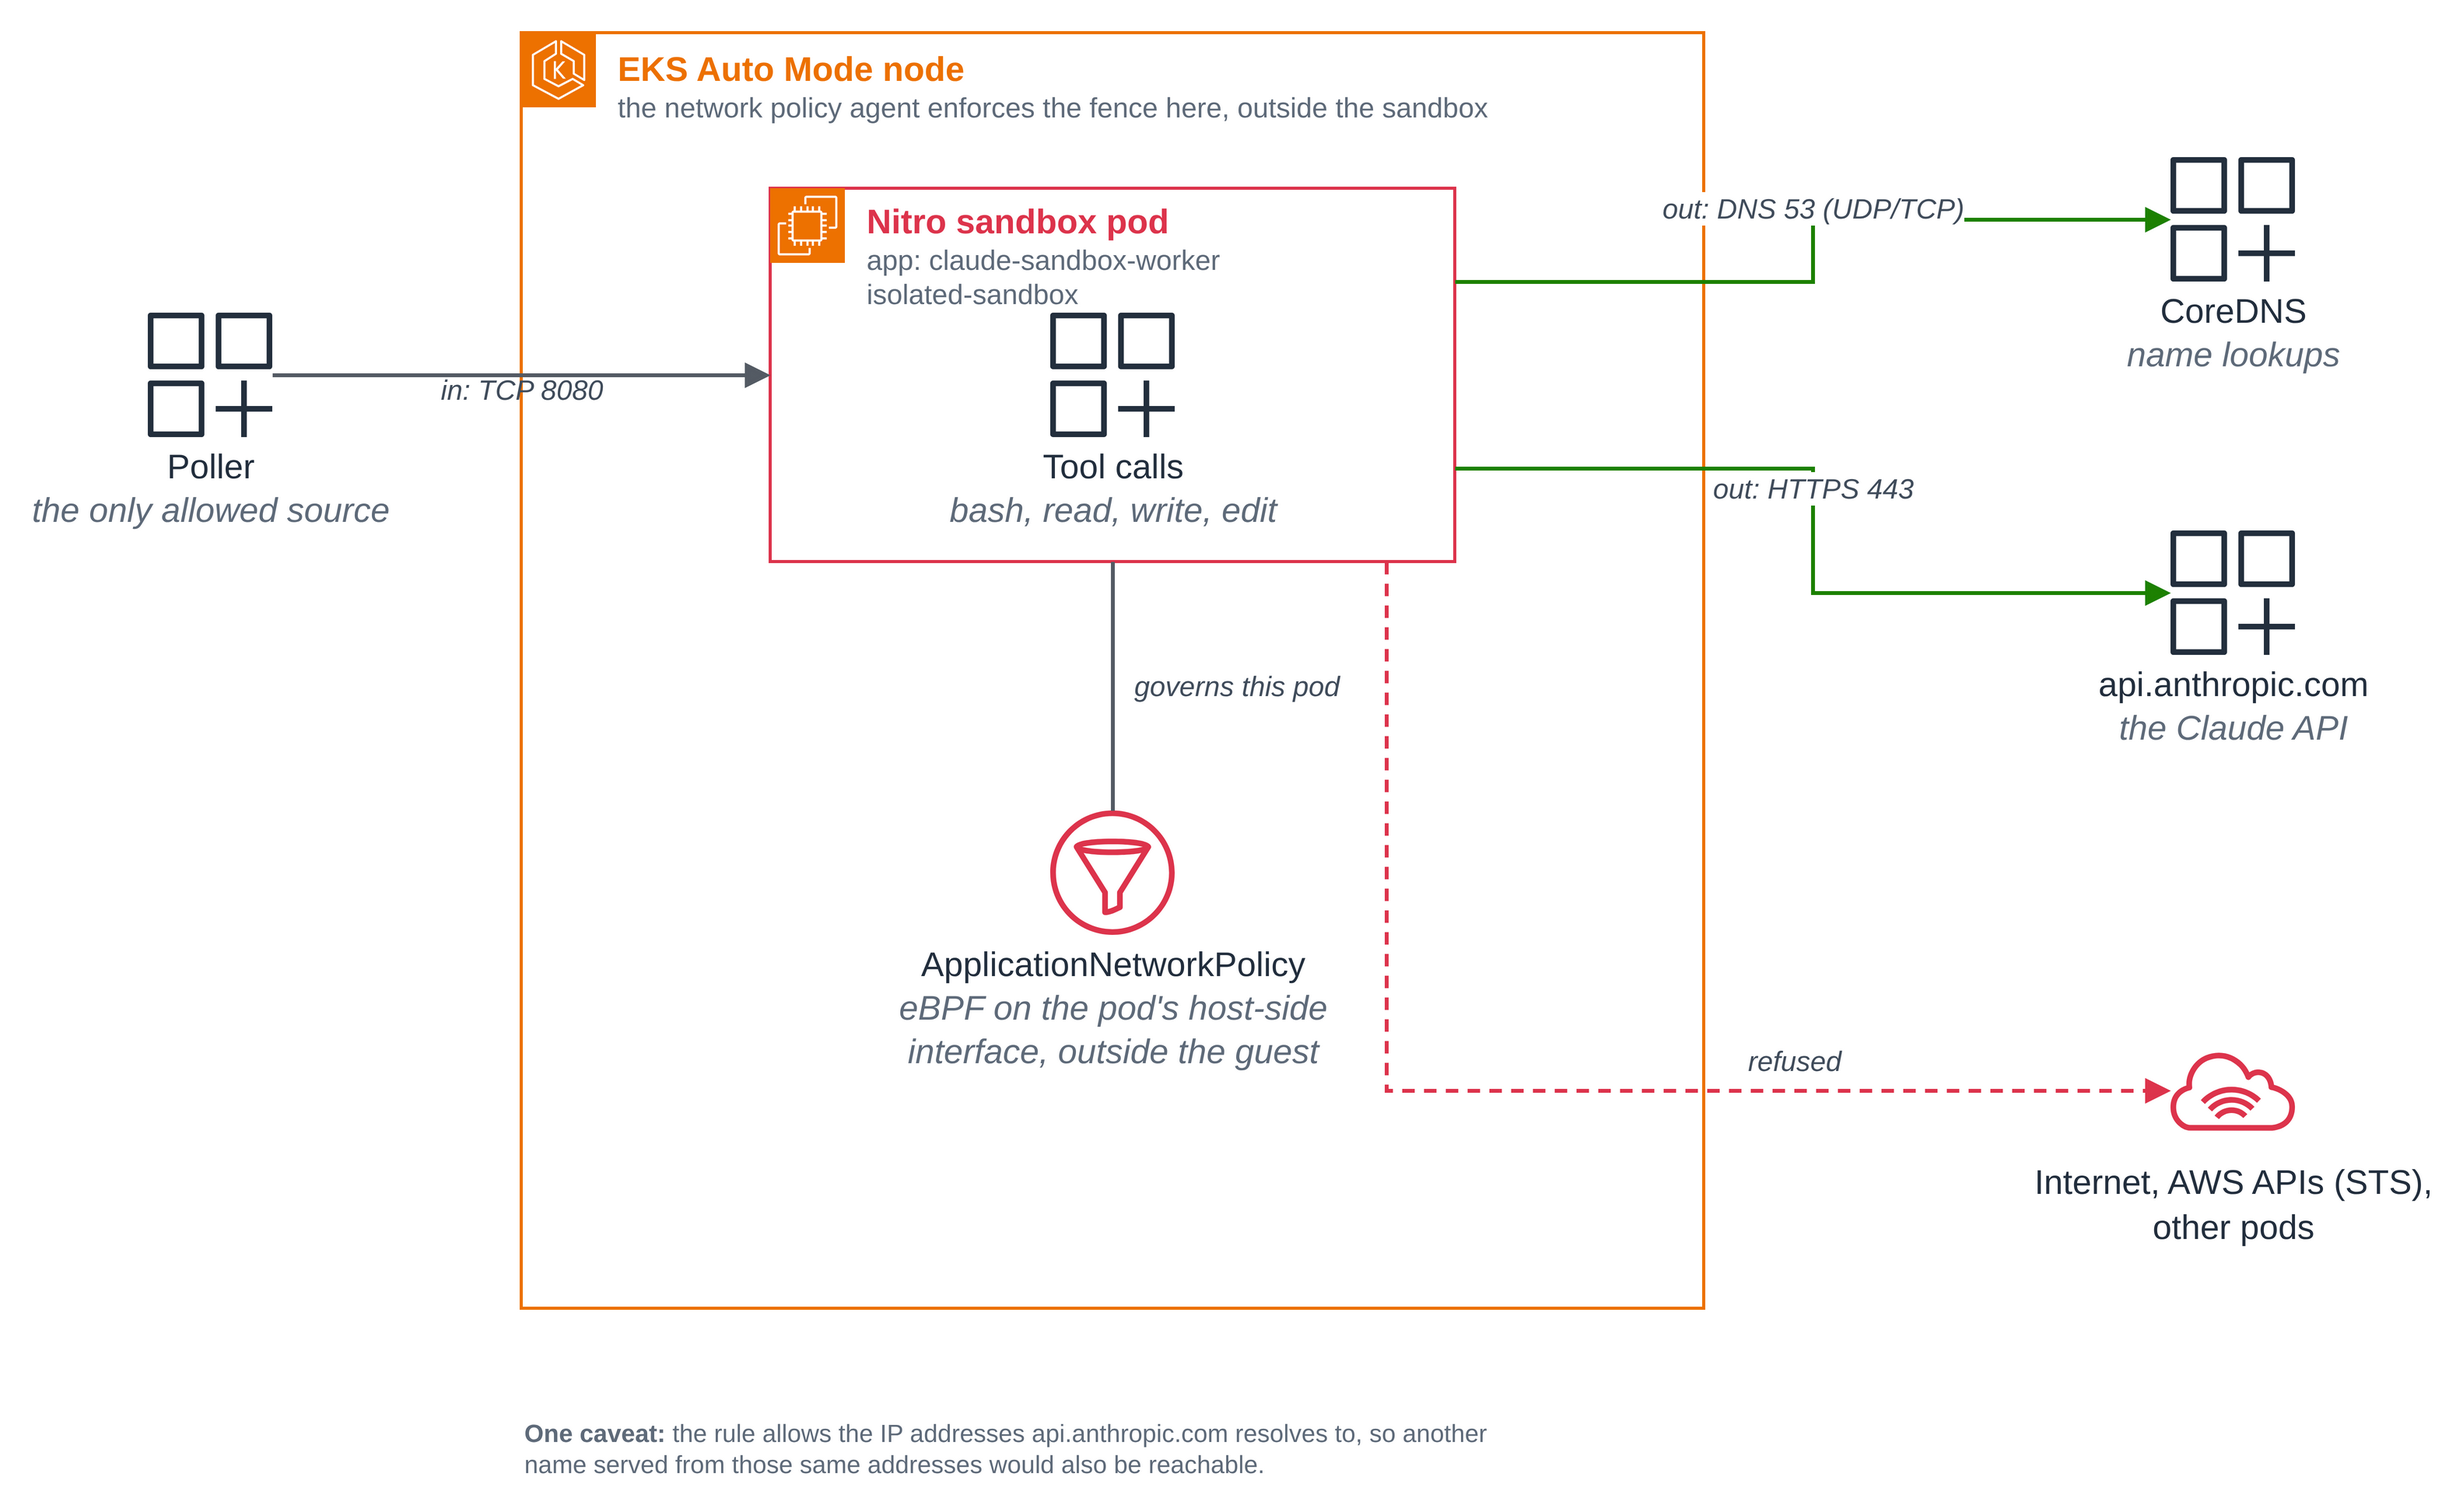
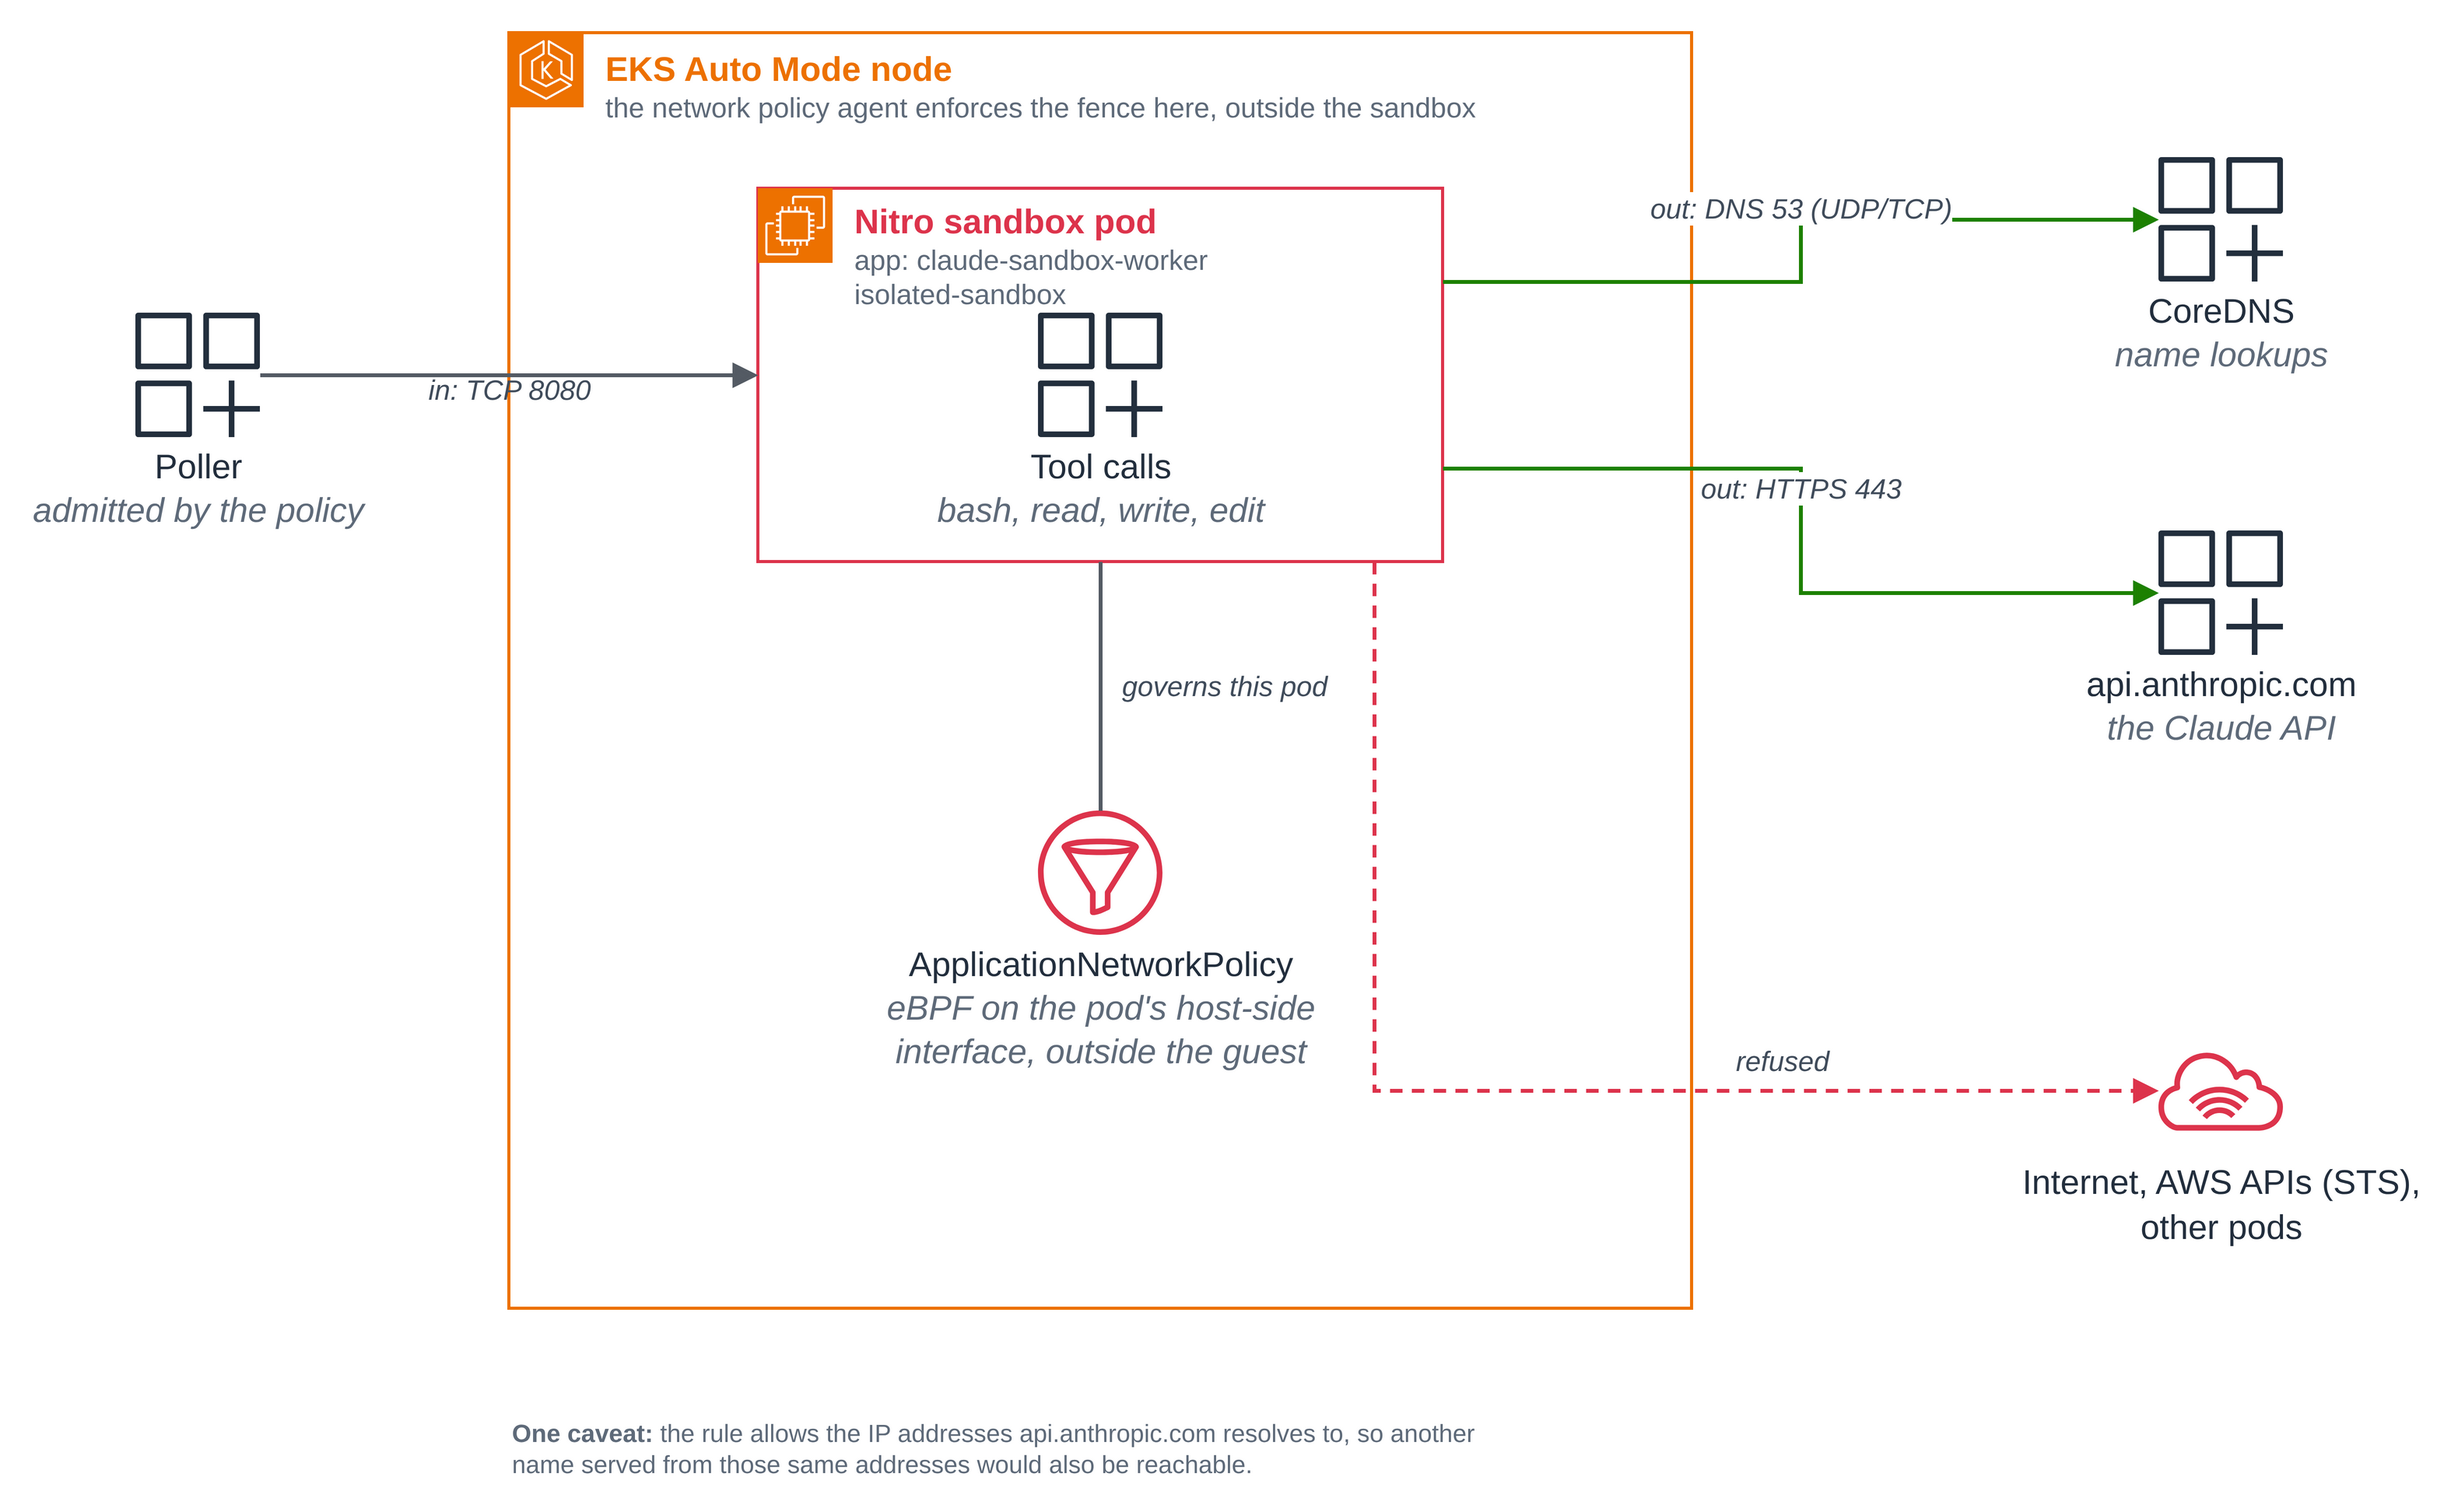
Drop the remaining "only inbound source" / "nothing else" absolutes
A follow-up review of the previous fix confirmed findings 3, 4 and the Figure 2
egress caption resolved, but found the node carve-out had not been propagated to
every spot: the overview bullet still said the policy "lets only the poller in"
and "lets the sandbox out only to", the policy header still said "nothing else",
and Figure 2's caption, alt text and the diagram's poller label still called the
poller "the only allowed inbound source". That contradicts the section's own
(correct) statement that Kubernetes always allows traffic to and from the pod's
own node -- the node (for example the kubelet's readiness probe) is also an
inbound source, and the node agent's ingress map holds the node IP as ANY
protocol (node-na-cli-maps.txt).

Fix: state these as what the policy admits/allows rather than as the only
reachability. Overview bullet -> "admits the poller inbound, and allows the
sandbox egress to ..."; policy header -> drops "nothing else"; Figure 2 caption,
alt text and the diagram poller label -> "admits the poller inbound" /
"admitted by the policy". The enumerated refused set (internet, AWS APIs such as
STS, other pods) still carries the restrictiveness, and the node carve-out is
stated in the section. Re-rendered the PNG with the proven command. mkdocs
--strict passes; a targeted grep finds no residual inbound-source or allow-set
absolute.

diff --git a/examples/ai-agents/claude-managed-agents/README.md b/examples/ai-agents/claude-managed-agents/README.md
@@ -36,9 +36,10 @@ Nitro sandbox:
   the poller hands it to the session's sandbox, and the sandbox runs on that token alone.
   The sandbox holds neither key and refuses to start if it finds one.
 - **The sandbox can reach the Claude API and its DNS; the internet, AWS APIs and other
-  pods are refused.** An `ApplicationNetworkPolicy` lets only the poller in, and lets the
-  sandbox out only to CoreDNS and `api.anthropic.com`. (The policy allows the addresses that
-  name resolves to, so another name served from the same addresses would also be reachable.)
+  pods are refused.** An `ApplicationNetworkPolicy` admits the poller inbound, and allows
+  the sandbox egress to CoreDNS and `api.anthropic.com`. (The policy allows the addresses
+  that name resolves to, so another name served from the same addresses would also be
+  reachable.)
 
 *Figure 1: Claude reasons on Anthropic's side and the poller claims the session. A warm
 Nitro sandbox runs the session's tool calls, and its egress policy allows only the Claude
@@ -372,12 +373,12 @@ service endpoints such as STS, and other pods are refused. (One carve-out sits a
 policy: Kubernetes always allows traffic to and from a pod's own node, covered under *No
 reusable credential* below.)
 
-*Figure 2: The egress fence around one sandbox pod. The poller is the only allowed inbound
-source; the only egress the policy allows is CoreDNS for name lookups and the Claude API;
-the public internet, AWS APIs such as STS, and other pods are refused. The policy is
-enforced on the node, outside the sandbox.*
+*Figure 2: The egress fence around one sandbox pod. The policy admits the poller inbound
+and allows egress to CoreDNS for name lookups and the Claude API; the public internet, AWS
+APIs such as STS, and other pods are refused. The policy is enforced on the node, outside
+the sandbox.*
 
-![A focused view of the egress fence. Inside an EKS Auto Mode node, a red Nitro sandbox pod labeled claude-sandbox-worker (isolated-sandbox) runs the tool calls. The poller is the only allowed inbound source and reaches the pod on TCP 8080. An ApplicationNetworkPolicy, drawn as a filter that the node's network policy agent enforces in eBPF on the pod's host-side interface outside the guest, governs the pod. Two egress paths are allowed, in green: CoreDNS for name lookups on UDP and TCP 53, and api.anthropic.com, the Claude API, on TCP 443. A red dashed path marks everything refused: the internet, AWS APIs such as STS, and other pods. A caveat notes that the rule allows the IP addresses api.anthropic.com resolves to, so another name served from those same addresses would also be reachable.](images/claude-managed-agents-fence.png)
+![A focused view of the egress fence. Inside an EKS Auto Mode node, a red Nitro sandbox pod labeled claude-sandbox-worker (isolated-sandbox) runs the tool calls. The policy admits the poller inbound, reaching the pod on TCP 8080. An ApplicationNetworkPolicy, drawn as a filter that the node's network policy agent enforces in eBPF on the pod's host-side interface outside the guest, governs the pod. Two egress paths are allowed, in green: CoreDNS for name lookups on UDP and TCP 53, and api.anthropic.com, the Claude API, on TCP 443. A red dashed path marks the refused traffic: the internet, AWS APIs such as STS, and other pods. A caveat notes that the rule allows the IP addresses api.anthropic.com resolves to, so another name served from those same addresses would also be reachable.](images/claude-managed-agents-fence.png)
 
 **Where it is enforced.** On EKS Auto Mode, a network policy agent on each node turns the
 policy into eBPF programs attached to the pod's host-side virtual interface — on the node,
